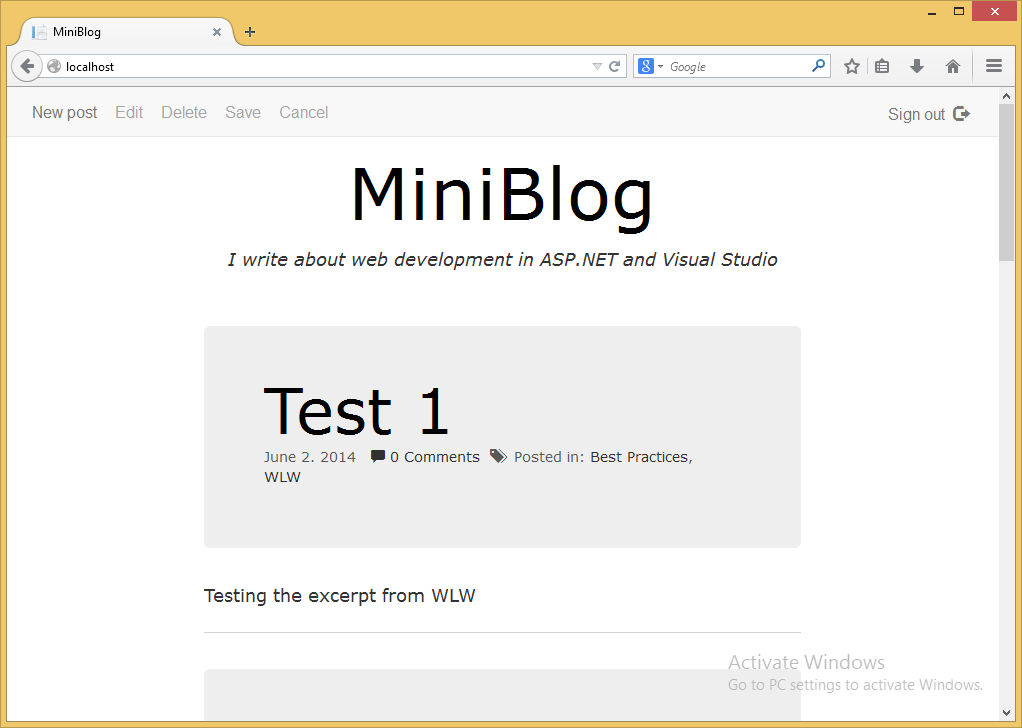
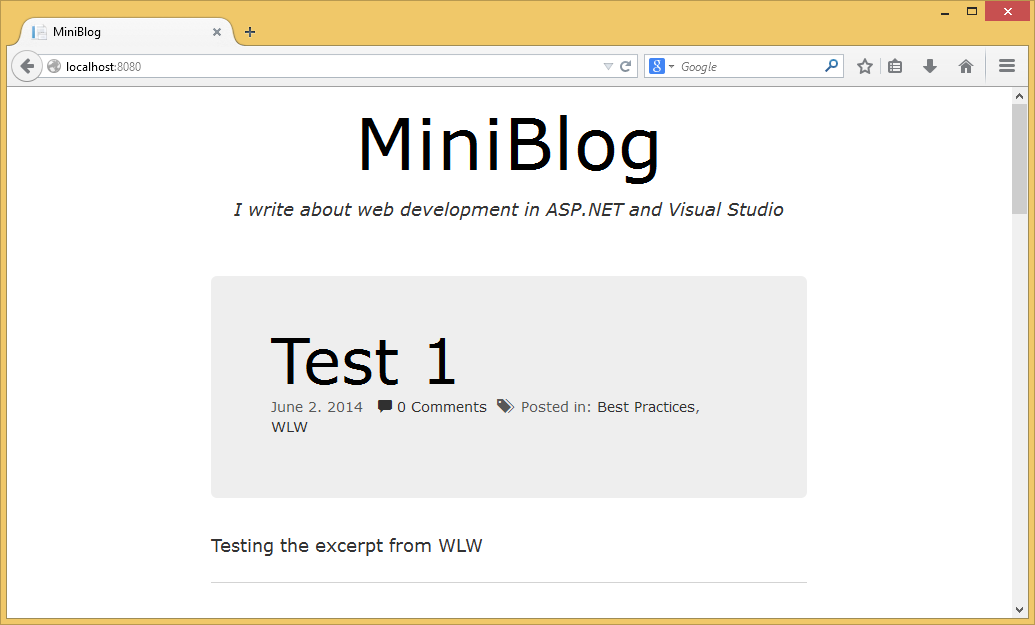
update to use port 8080

diff --git a/getting_started/walkthrough_-_asp.net/walkthrough_iii.md b/getting_started/walkthrough_-_asp.net/walkthrough_iii.md
@@ -27,12 +27,12 @@ Running container 249c4f3e with visibility public (use '--private' for a private
 
 ```
 (249c4f3e) C:\> cd c:\
-(249c4f3e) C:\>git clone https://github.com/madskristensen/MiniBlog.git
+(249c4f3e) C:\> git clone https://github.com/madskristensen/MiniBlog.git
 
 # This clones the project into a folder in the container and not on your local system.
 
 # Start the ASP.NET application console
-(249c4f3e) C:\> start "MiniBlog" "C:\Program Files (x86)\IIS Express\iisexpress.exe" /path:C:\MiniBlog\Website /port:80
+(249c4f3e) C:\> start "MiniBlog" "C:\Program Files (x86)\IIS Express\iisexpress.exe" /path:C:\MiniBlog\Website
 ```
 
 The IIS output will be logged in a new console window.
@@ -42,7 +42,7 @@ Copied template config file 'C:\Program Files (x86)\IIS Express\AppServer\applic
 cationhost2014112420457848.config'
 Updated configuration file 'C:\Users\Administrator\appdata\local\temp\iisexpress\applicationhost2014112420457848.config' with given cmd line info.
 Starting IIS Express ...
-Successfully registered URL "http://localhost:80/" for site "Development Web Site" application "/"
+Successfully registered URL "http://localhost:8080/" for site "Development Web Site" application "/"
 Registration completed
 IIS Express is running.
 Enter 'Q' to stop IIS Express
@@ -55,7 +55,7 @@ Enter 'Q' to stop IIS Express
 (249c4f3e) C:\> "C:\Program Files (x86)\Mozilla\firefox.exe"
 ```
 
-Go to `http://localhost` and test the application.
+Go to `http://localhost:8080` and test the application.
 
 ![](/components/docs/getting_started/walkthrough_-_asp.net/miniblog.png)
 
@@ -94,11 +94,11 @@ Upgrading Clean to version 4.0
 Verify that the web application is in the same state even though you are on a completely different system.
 
 ```
-249c4f3e C:\> start "MiniBlog" "C:\Program Files (x86)\IIS Express\iisexpress.exe" /path:C:\MiniBlog\Website /port:80
+249c4f3e C:\> start "MiniBlog" "C:\Program Files (x86)\IIS Express\iisexpress.exe" /path:C:\MiniBlog\Website
 249c4f3e C:\> "C:\Program Files (x86)\Mozilla\firefox.exe"
 ```
 
-Go to `http://localhost` and you can see that the post we created earlier is still there.
+Go to `http://localhost:8080` and you can see that the post we created earlier is still there.
 
 ![](/components/docs/getting_started/walkthrough_-_asp.net/same-post-new-system.png)
 
